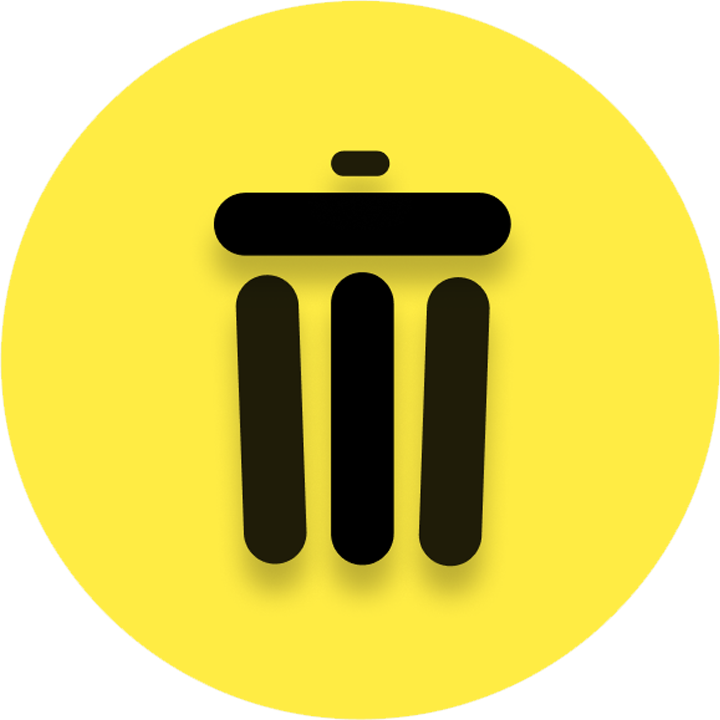
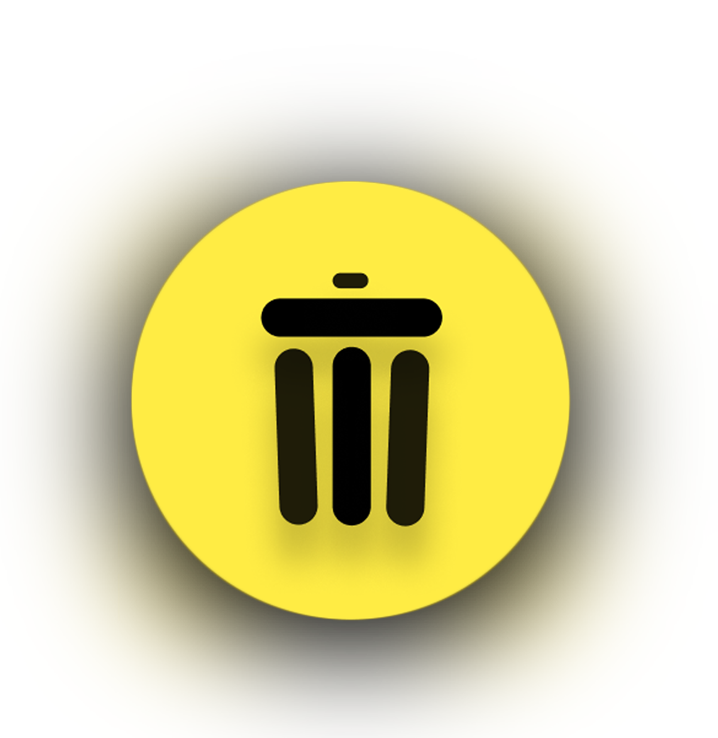
Scan page layout

diff --git a/trash-scan/src/pages/Home.js b/trash-scan/src/pages/Home.js
@@ -16,10 +16,10 @@ function Home() {
         }}
       >
         <title>TrashScan</title>
-        <div className=" ">
+        <div className="w-screen justify-center">
           <div>
-            <header className="bg-yellow-300 rounded-3xl rounded-t-none pt-4">
-                <img src={Logo} alt='logo' className="object-contain h-16 w-16 flex ml-72 pb-2" ></img>
+            <header className="bg-yellow-300 rounded-3xl rounded-t-none pl-4 pt-4">
+                <img src={Logo} alt='logo' className="object-contain h-16 w-20 flex ml-72 pb-2" ></img>
             </header>
           </div>
           <div className="h-60">
@@ -29,7 +29,7 @@ function Home() {
           </div>
           <br />
           <div>
-              <section className="LowerGradient block bg-gray-500 h-96 pt-9">
+              <section className="LowerGradient block bg-black-500 h-96 pt-9">
                 <div> 
                   <img src={Card2} alt='card2' className="displaycard1 rounded-3xl object-center"></img>
                 </div>

diff --git a/trash-scan/src/pages/Scan.js b/trash-scan/src/pages/Scan.js
@@ -1,0 +1,32 @@
+import React from 'react'
+import Layout from '../components/Layout';
+import Logo from "../images/trashscan-icon.png";
+
+function Scan() {
+    return (
+        <Layout>
+            <div className="w-screen justify-center">
+          <div>
+            <header className="bg-yellow-300 rounded-3xl rounded-t-none pt-4 pl-4">
+                <img src={Logo} alt='logo' className="object-contain h-16 w-20 flex ml-72 pb-2" ></img>
+            </header>
+          </div>
+          </div>
+
+          <div>
+            <footer className="bg-black rounded-3xl rounded-b-none h-80">
+             <p className="scantext1 text-white text-2xl font-bold">
+                Scan and Receive
+             </p>
+             <p className='scantext2 text-yellow-300 text-lg font-bold pt-2'>
+                Make sure the entire QR Code is inside the yellow box to start scanning
+             </p>
+            </footer>
+          </div>
+        </Layout>
+    )
+}
+
+
+
+export default Scan;

diff --git a/trash-scan/src/App.css b/trash-scan/src/App.css
@@ -49,7 +49,7 @@
 }
 
 .LowerGradient{
-  background-image: linear-gradient(to bottom, rgba(253, 249, 249, 0.2), rgba(48, 46, 46, 0.75));
+  background-image: linear-gradient(to bottom, rgba(0, 0, 0, 0.1), rgba(66, 66, 66, 0.9));
   height: 500px;
 }
 
@@ -57,4 +57,19 @@
   margin-left: auto;
   margin-right: auto;
   width: 305px;
+}
+
+footer{
+  margin-top: 540px;
+}
+
+.scantext1{
+  margin-left: auto;
+  margin-right: auto;
+  width: 200px;
+  padding-top: 20px;
+}
+
+.scantext2{
+  text-align:center;
 }
